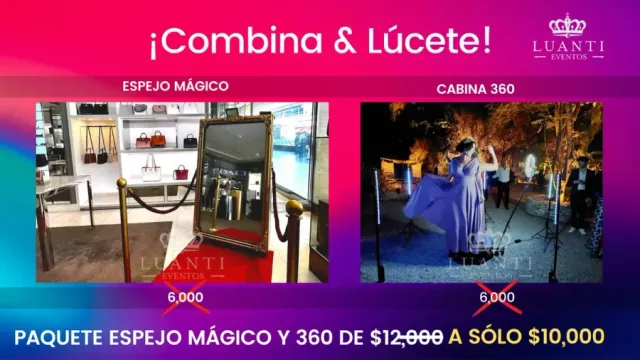
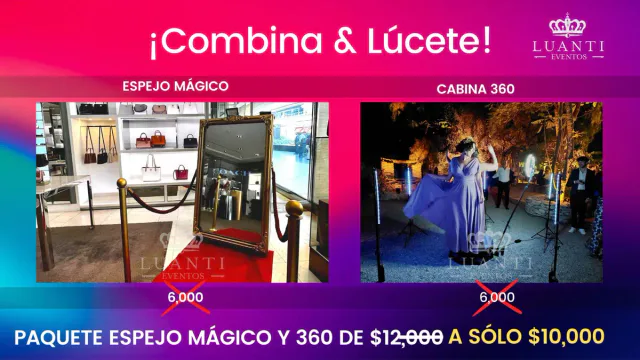
Subir calidad de imágenes

diff --git a/components/home/services-preview.tsx b/components/home/services-preview.tsx
@@ -11,19 +11,19 @@ import Link from "next/link"
 
 const serviceImages = [
   {
-    src: "/services/espejo-magico-info-380.webp",
+    src: "/services/espejo-magico-info-520.webp",
     alt: "Espejo Mágico - $6,000 MXN",
     name: "Espejo Mágico",
     slug: "espejo-magico",
   },
   {
-    src: "/services/cabina-360-info-380.webp",
+    src: "/services/cabina-360-info-520.webp",
     alt: "Cabina 360 - $6,000 MXN",
     name: "Cabina 360",
     slug: "cabina-360",
   },
   {
-    src: "/services/telefono-dedicatorias-info-380.webp",
+    src: "/services/telefono-dedicatorias-info-520.webp",
     alt: "Teléfono de Dedicatorias - $5,000 MXN",
     name: "Teléfono de Dedicatorias",
     slug: "telefono-dedicatorias",

diff --git a/components/home/packages-preview.tsx b/components/home/packages-preview.tsx
@@ -10,13 +10,13 @@ import Image from "next/image"
 
 const comboImages = [
   {
-    src: "/packages/combo-espejo-cabina-480.webp",
+    src: "/packages/combo-espejo-cabina-640.webp",
     alt: "Paquete Espejo Mágico + Cabina 360 - $10,000 MXN",
     name: "Espejo Mágico + Cabina 360",
     price: "$10,000 MXN",
   },
   {
-    src: "/packages/combo-espejo-telefono-480.webp",
+    src: "/packages/combo-espejo-telefono-640.webp",
     alt: "Paquete Espejo Mágico + Teléfono de Dedicatorias - $9,000 MXN",
     name: "Espejo Mágico + Teléfono de Dedicatorias",
     price: "$9,000 MXN",

diff --git a/components/home/hero-section.tsx b/components/home/hero-section.tsx
@@ -85,7 +85,7 @@ export function HeroSection() {
           >
             <div className="relative aspect-[4/3] rounded-2xl overflow-hidden border border-border shadow-2xl shadow-primary/10">
               <Image
-                src="/images/hero-espejo-magico-520.webp"
+                src="/images/hero-espejo-magico-720.webp"
                 alt="Espejo Mágico en evento"
                 fill
                 className="object-cover object-center-top"
